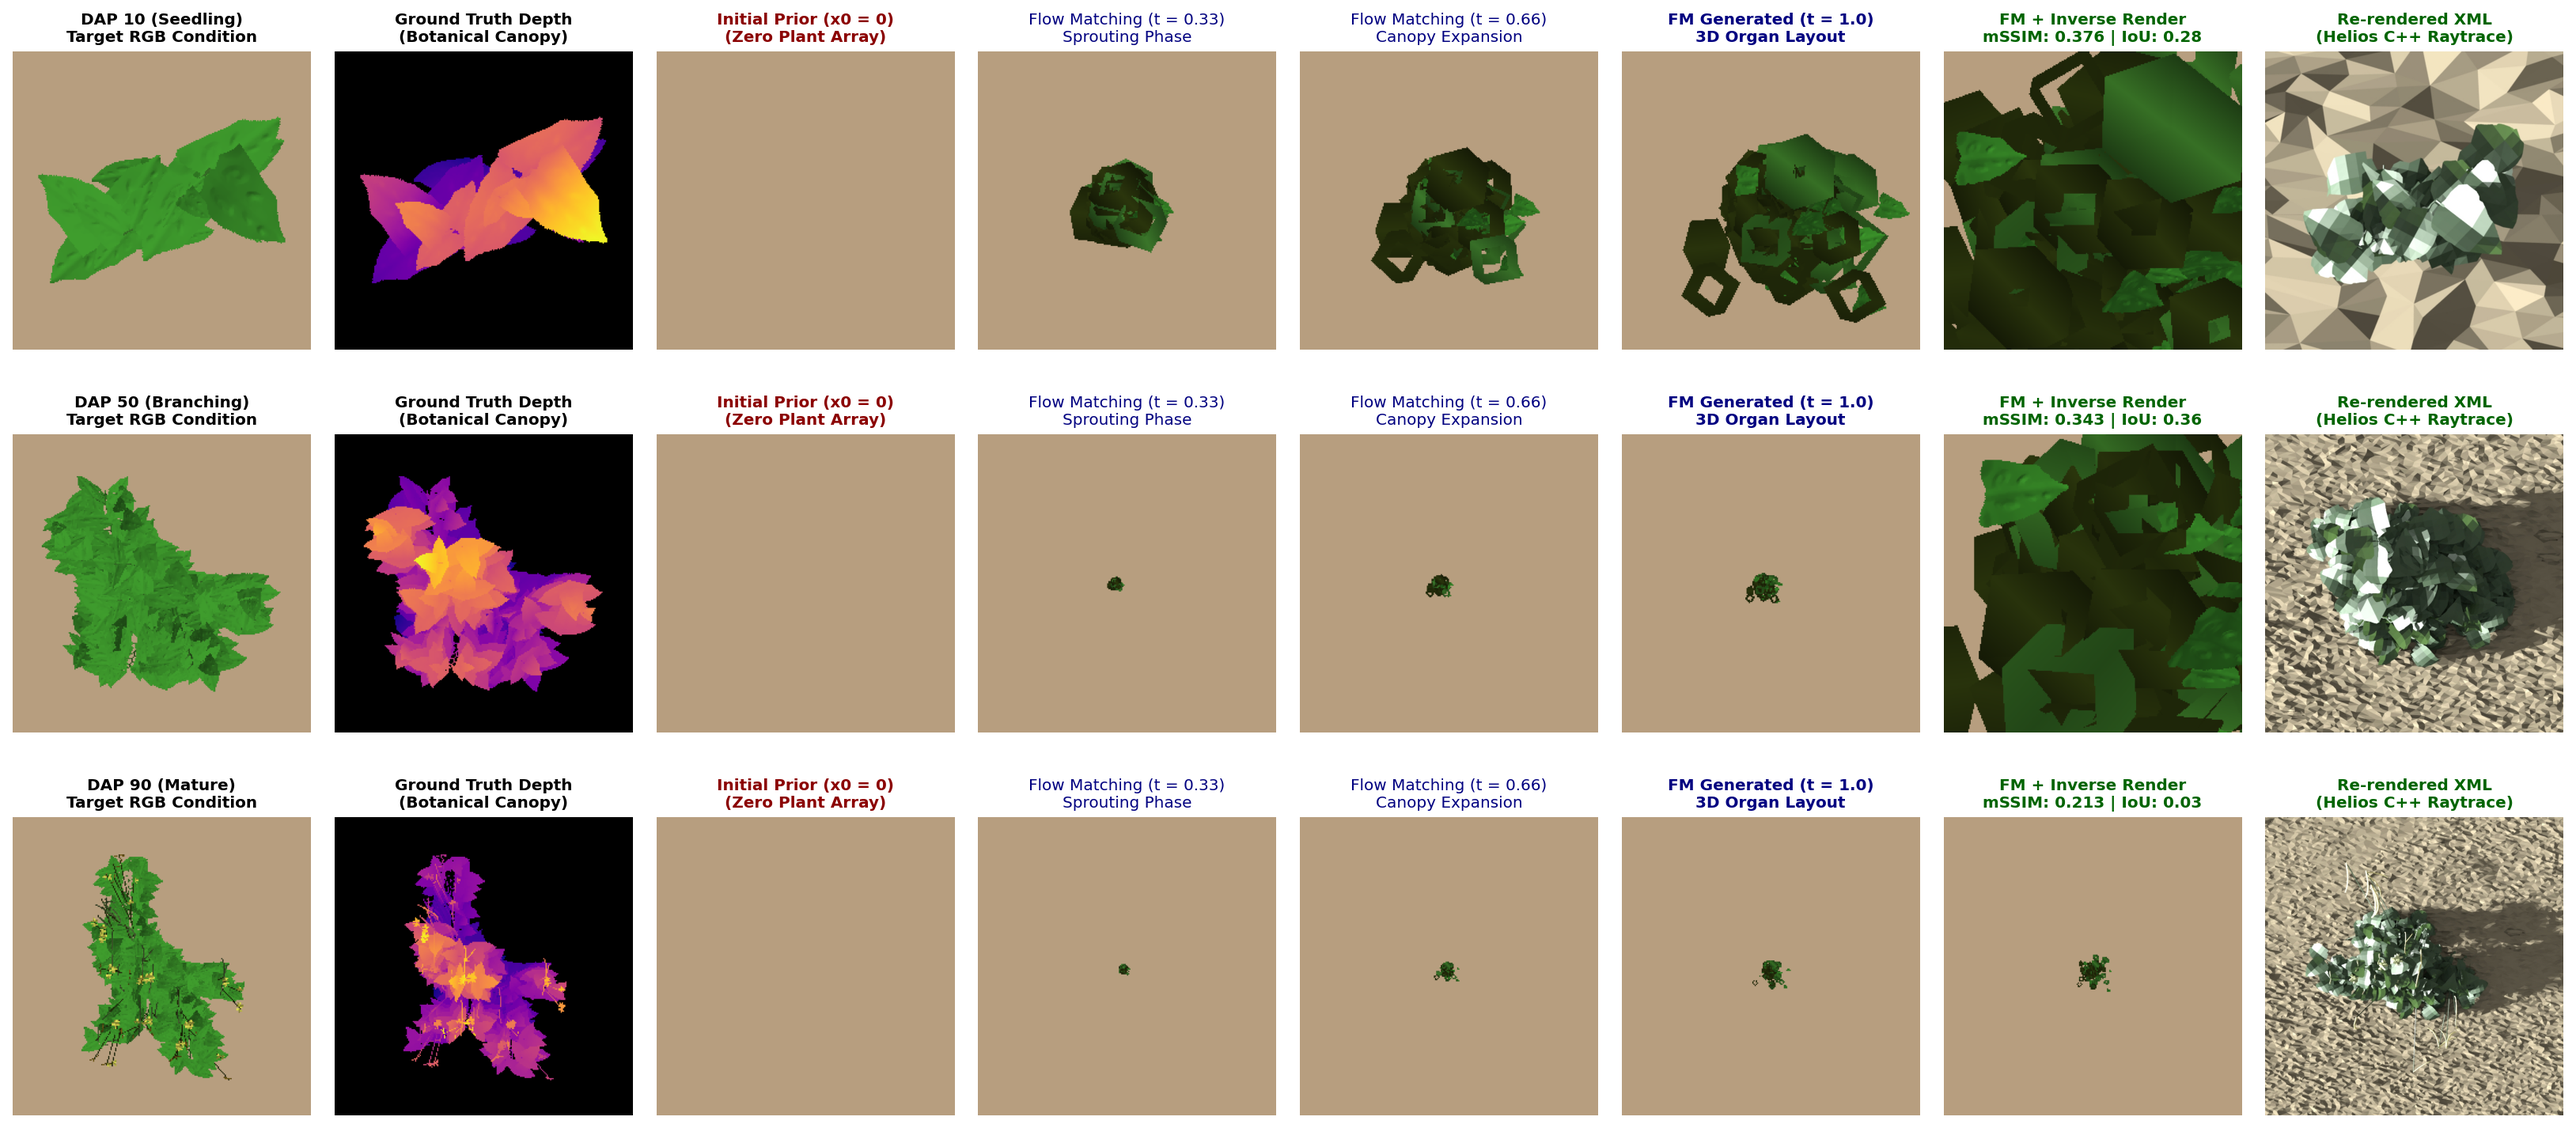
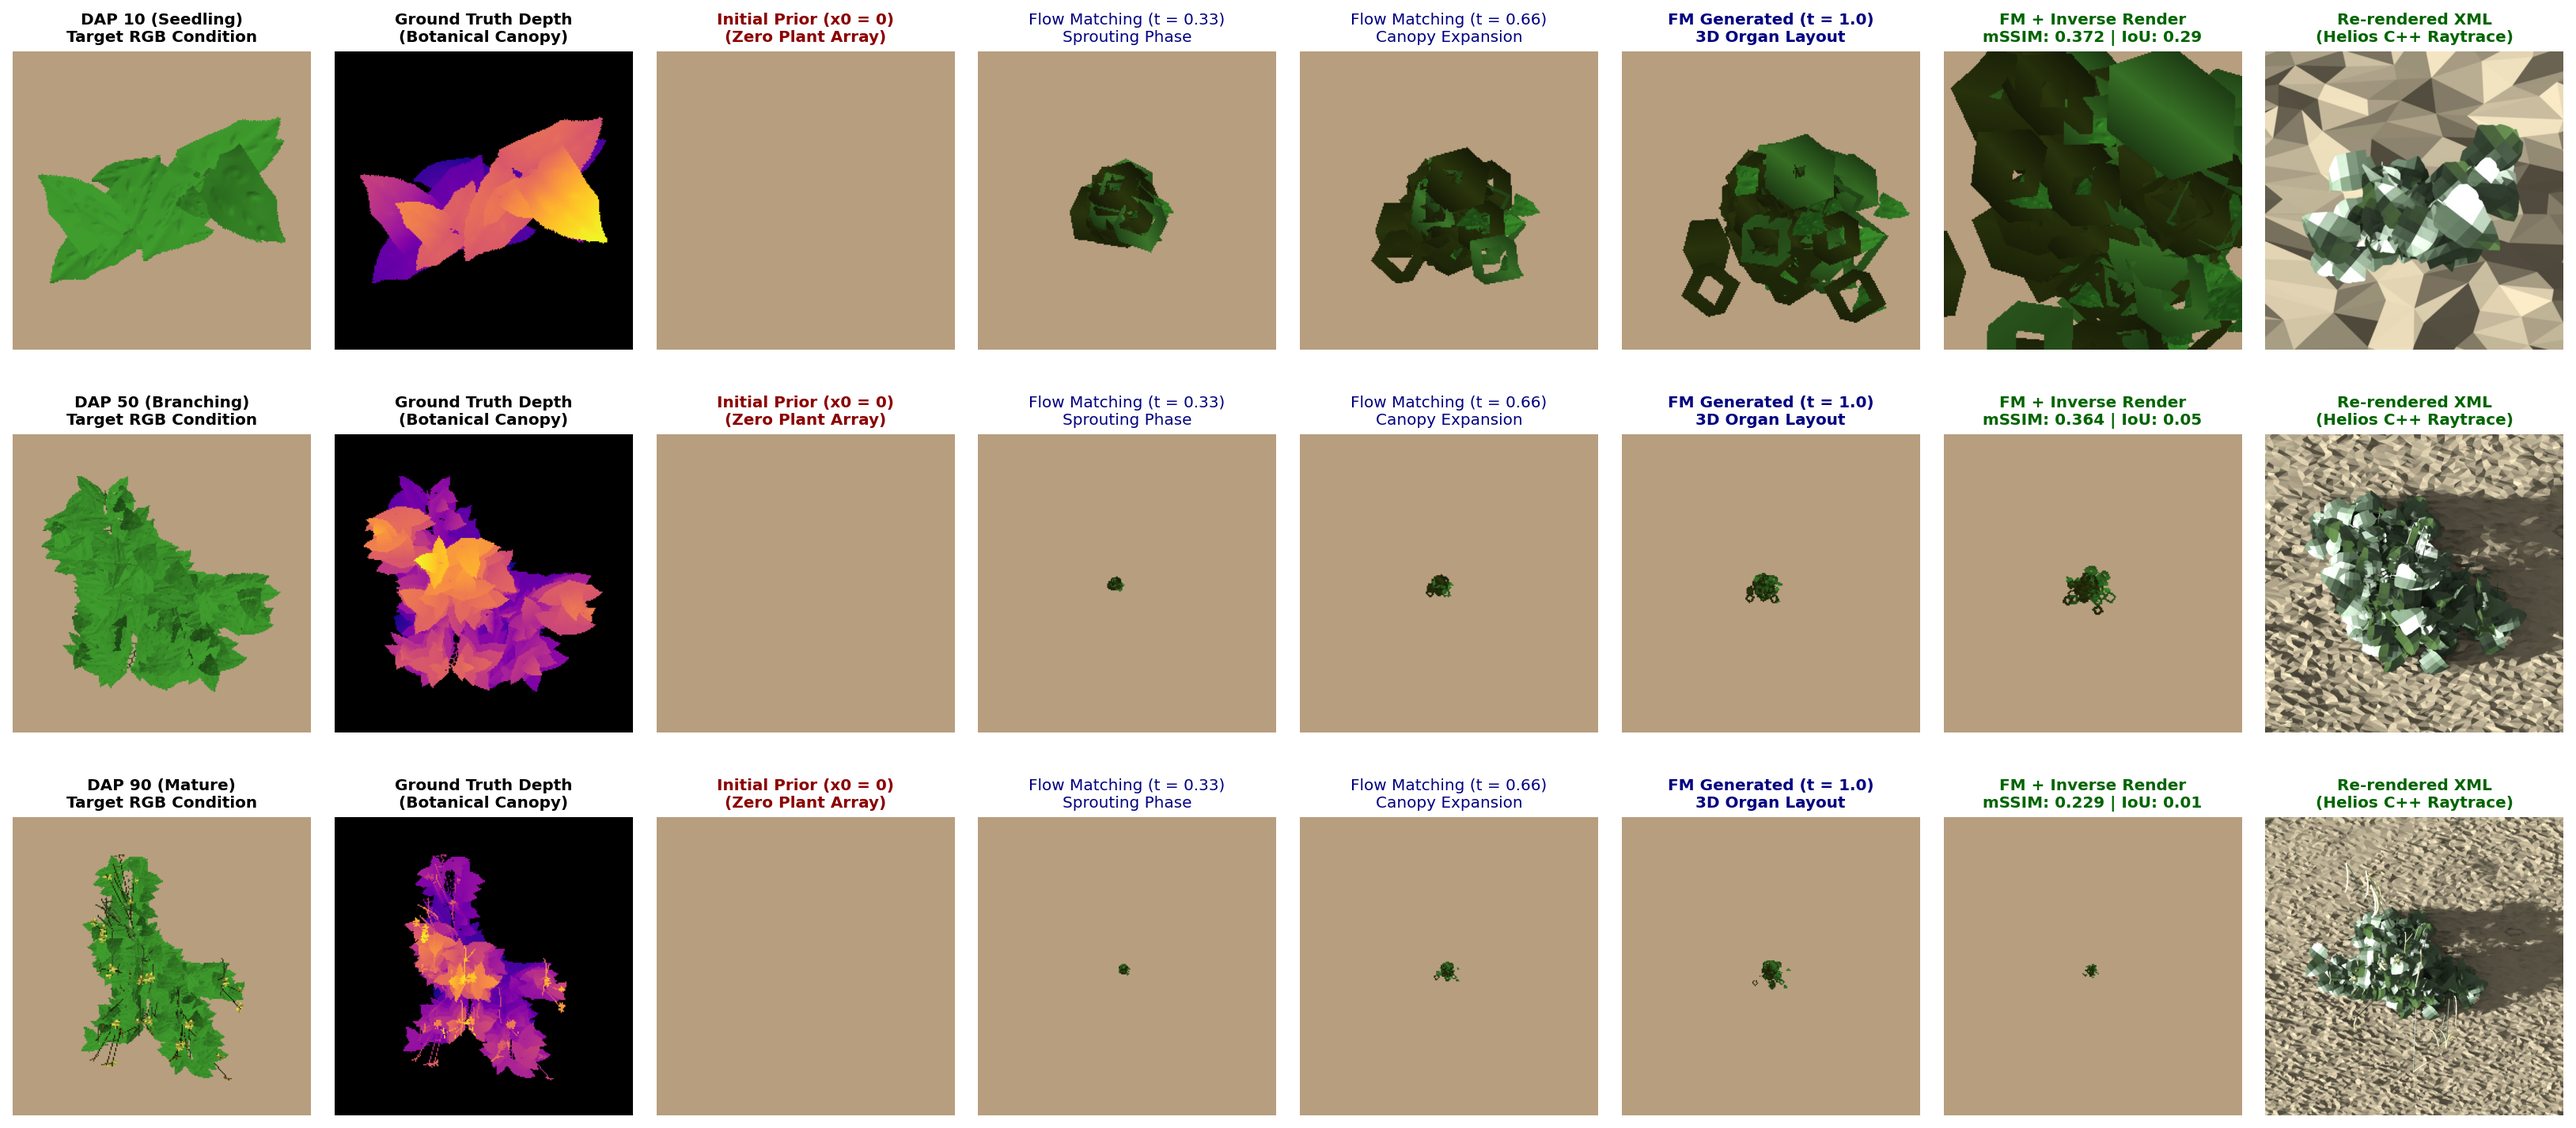
feat(flow-matching): integrate Depth loss and safe organ zero-scaling for isolated Helios XML rendering

Changed region(s): [[0.7445, 0.3703, 1.0, 0.648], [0.7445, 0.0309, 1.0, 0.3086], [0.8065, 0.8331, 0.8375, 0.864]]

diff --git a/scripts/generate_fig_flow_matching_zero_init.py b/scripts/generate_fig_flow_matching_zero_init.py
@@ -269,9 +269,11 @@ def main():
 
             loss_out = renderer.render_part_tensor_multimodal(
                 p_eval, template_organ_array=gt_arr, camera_height=5.0, elevation_deg=ELEVATION_DEG,
-                device=device, focus_plant=True, fixed_camera_bounds=cam_bounds, soft_existence=True,
+                device=device, focus_plant=True, fixed_camera_bounds=cam_bounds, return_depth=True, soft_existence=True,
             )
-            loss = F.l1_loss(loss_out["rgb"], gt_out["rgb"])
+            loss_rgb = F.l1_loss(loss_out["rgb"], gt_out["rgb"])
+            loss_depth = F.l1_loss(loss_out["depth"], gt_out["depth"])
+            loss = loss_rgb + 3.0 * loss_depth
             loss.backward()
             optimizer.step()
 
@@ -305,13 +307,13 @@ def main():
             if idx < p_np.shape[0]:
                 exist_val = float(p_np[idx, P_COL_EXISTENCE])
                 scale_val = float(p_np[idx, P_COL_SCALE_X])
-                if exist_val < 0.35:
+                if exist_val < 0.40:
                     if "leaf_scale" in node._xml_params:
-                        node._xml_params["leaf_scale"] = "0.0001"
-                    if "internode_length" in node._xml_params:
-                        node._xml_params["internode_length"] = "0.0001"
+                        node._xml_params["leaf_scale"] = "0.00001"
                     if "petiole_length" in node._xml_params:
                         node._xml_params["petiole_length"] = "0.0001"
+                    if "internode_length" in node._xml_params:
+                        node._xml_params["internode_length"] = "0.0001"
                 else:
                     if "leaf_scale" in node._xml_params and scale_val > 1e-4:
                         node._xml_params["leaf_scale"] = f"{scale_val:.4f}"
